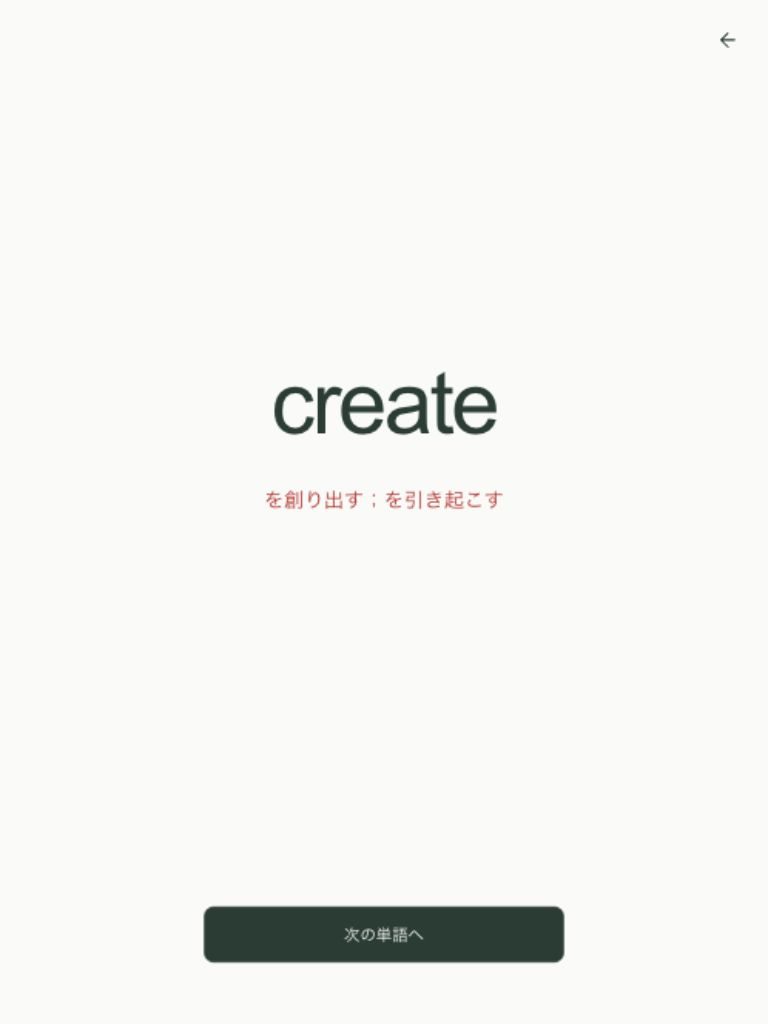
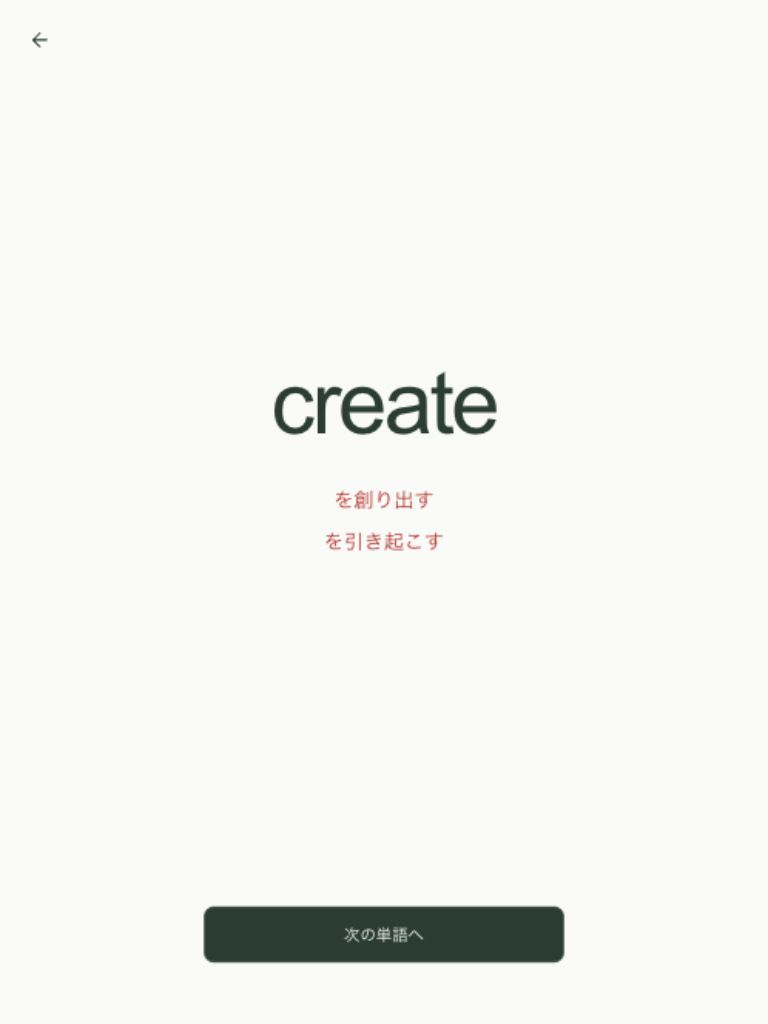
ホーム矢印を左上に移し、意味を項目ごとに改行する

Changed region(s): [[0.3438, 0.4688, 0.6562, 0.5625], [0.9375, 0.0312, 0.9688, 0.0625], [0.0312, 0.0312, 0.0625, 0.0625]]

diff --git a/src/components/study-session.tsx b/src/components/study-session.tsx
@@ -3,6 +3,7 @@
 import Link from "next/link";
 import { useState, type CSSProperties } from "react";
 import { advanceStudy, INITIAL_STUDY_STATE, type StudyWord } from "@/lib/study";
+import { splitMeaning } from "@/lib/meaning";
 
 export function StudySession({ words }: { words: StudyWord[] }) {
   const [state, setState] = useState(INITIAL_STUDY_STATE);
@@ -17,19 +18,21 @@ export function StudySession({ words }: { words: StudyWord[] }) {
         </svg>
       </Link>
       <main className="study-screen" aria-label="英単語の学習">
-      <div className="study-content" id="word-content" aria-live="polite" aria-atomic="true">
-        {state.complete ? <h1 className="completion-title">完了</h1> : <>
-          <h1 className="english-word" lang="en" style={{ "--word-length": current.word.length } as CSSProperties}>{current.word}</h1>
-          <div className="meaning-area">
-            {state.revealed && <p className="meaning">{current.meaning}</p>}
-          </div>
-        </>}
-      </div>
-      <div className="study-controls">
-        <button type="button" className="study-button" aria-controls="word-content" onClick={() => setState((previous) => advanceStudy(previous, words.length))}>
-          {actionLabel}
-        </button>
-      </div>
+        <div className="study-content" id="word-content" aria-live="polite" aria-atomic="true">
+          {state.complete ? <h1 className="completion-title">完了</h1> : <>
+            <h1 className="english-word" lang="en" style={{ "--word-length": current.word.length } as CSSProperties}>{current.word}</h1>
+            <div className="meaning-area">
+              {state.revealed && splitMeaning(current.meaning).map((meaning, index) => (
+                <p className="meaning" key={`${current.id}-${index}`}>{meaning}</p>
+              ))}
+            </div>
+          </>}
+        </div>
+        <div className="study-controls">
+          <button type="button" className="study-button" aria-controls="word-content" onClick={() => setState((previous) => advanceStudy(previous, words.length))}>
+            {actionLabel}
+          </button>
+        </div>
       </main>
     </>
   );

diff --git a/src/app/globals.css b/src/app/globals.css
@@ -21,7 +21,8 @@ button:focus-visible, a:focus-visible { outline: 3px solid #8fa879; outline-offs
 .english-word { max-width: 100%; margin: 0; font-size: 64px; font-size: clamp(28px, calc(160cqw / var(--word-length, 6)), 88px); font-weight: 500; letter-spacing: -.035em; line-height: 1.15; overflow-wrap: anywhere; }
 .meaning-area { width: 100%; min-height: 96px; margin-top: 28px; }
 .meaning { margin: 0; color: #c62828; font-size: 20px; line-height: 1.8; overflow-wrap: anywhere; }
-.home-link { position: fixed; top: max(16px, env(safe-area-inset-top)); right: max(16px, env(safe-area-inset-right)); z-index: 1; display: grid; place-items: center; width: 48px; height: 48px; border-radius: 50%; color: var(--ink); }
+.meaning + .meaning { margin-top: 6px; }
+.home-link { position: fixed; top: max(16px, env(safe-area-inset-top)); left: max(16px, env(safe-area-inset-left)); z-index: 1; display: grid; place-items: center; width: 48px; height: 48px; border-radius: 50%; color: var(--ink); }
 .study-controls { width: min(360px, 100%); margin: 0 auto; display: flex; flex-direction: column; gap: 12px; }
 .study-button, .home-button { display: flex; align-items: center; justify-content: center; width: 100%; min-height: 56px; padding: 14px 16px; border-radius: 10px; font-size: 16px; cursor: pointer; }
 .study-button { background: var(--ink); color: #fff; border: 1px solid var(--ink); }

diff --git a/src/lib/meaning.ts b/src/lib/meaning.ts
@@ -1,0 +1,21 @@
+export function splitMeaning(meaning: string): string[] {
+  const brackets: Record<string, string> = { "（": "）", "(": ")", "［": "］", "[": "]", "〔": "〕", "【": "】" };
+  const closingBrackets: string[] = [];
+  const lines: string[] = [];
+  let line = "";
+
+  for (const character of meaning) {
+    if (brackets[character]) closingBrackets.push(brackets[character]);
+    else if (character === closingBrackets.at(-1)) closingBrackets.pop();
+
+    // 括弧内の注釈はまとめ、意味を区切る句読点でだけ改行する。
+    if (closingBrackets.length === 0 && /[；;，,、\n]/.test(character)) {
+      if (line.trim()) lines.push(line.trim());
+      line = "";
+    } else {
+      line += character;
+    }
+  }
+  if (line.trim()) lines.push(line.trim());
+  return lines;
+}
